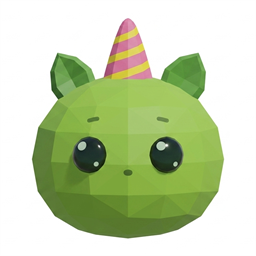
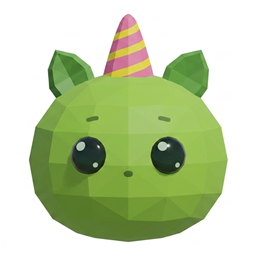
fix(app): 아르 아바타 — 흰 여백과 초록 링 정리
로그인 화면에서 아르 주변이 휑하고, 원 가장자리에 초록 조각이 얼룩처럼
보인다는 지적. 원인이 둘이었다.

1) 그림 자체에 여백
   assets/images/ar.png 는 런처 아이콘 원본을 그대로 줄인 것이라 그림이
   캔버스의 75%만 채우고 사방이 비어 있었다. 원본(766px)에서 그림 영역만
   잘라 다시 만든다. 자를 때 뿔이 원형 클립에 걸리지 않도록 세로 반지름보다
   큰 한 변(766 중 740)을 썼다.

2) 테두리가 이미지에 덮여 얼룩이 됐다
   원형 클립이 이미지를 바깥 원까지 그리는 바람에 연두 링이 군데군데 가려지고
   남은 조각만 초록 틈처럼 보였다. 링을 없앤다 — 웹도 링 없이 캐릭터만 쓴다.

바탕색도 정리했다. 컨테이너에 연두(--sidebar-bg)를 칠하고 있었지만 ar.png 가
불투명 흰 배경이라 애초에 가려져 보이지 않았다. 실제 렌더링에 맞춰 흰색으로
두고 이유를 주석에 남긴다 — 안 보이는 색을 적어 두면 다음 사람이 연두인 줄
알고 맞춰 그린다.

로그인 마크·아르 시트 머리·아르 버튼이 같은 ArAvatar 를 쓰므로 세 곳이
한 번에 반영된다.

같이 정리한 낡은 주석
- 로그인 파일 상단이 "첫 화면으로 거는 것은 큐 7 때"라고 적혀 있었다.
  이미 첫 화면이라 정정
- _Logo 의 주석이 _ArMark 위로 밀려나 있던 것을 제자리로
- 아르 버튼 주석의 "사이드바 색" — 이제 흰색이다

검증: flutter analyze 무경고 · flutter test 153개 통과 · SM-S928N 실기기 확인

diff --git a/mobile/lib/screens/login_screen.dart b/mobile/lib/screens/login_screen.dart
@@ -7,11 +7,13 @@ import '../theme/tokens.dart';
 ///
 /// 그 목업은 폭 360px 카드라 폰 화면에 그대로 맞는다. 모바일 전용 시안은 따로 없다.
 ///
-/// **아직 진짜 로그인이 아니다.** 비밀번호를 검사하지 않고 바로 목록으로 넘어간다.
-/// JWT 연동과 secure storage 는 큐 7번이고, 이 화면을 앱의 첫 화면으로 거는 것도
-/// 그때다(지금은 검사 없는 통과라 첫 화면으로 두면 오히려 헷갈린다).
+/// **앱의 첫 화면이다**(2026-09-01). 통과하면 탭 셸(홈)로 간다.
 ///
-/// 확인은 `flutter run --route=/login` 으로 한다.
+/// **아직 진짜 로그인은 아니다** — 비밀번호를 검사하지 않고 아무 값이나 통과한다.
+/// JWT 연동과 secure storage 는 큐 7번이고, 그때 [_submit] 이 POST /auth/login
+/// 이 되며 실패 문구 자리도 여기 생긴다.
+///
+/// 개발 중 로그인을 건너뛰려면 `flutter run --route=/` 로 띄운다.
 class LoginScreen extends StatefulWidget {
   const LoginScreen({super.key});
 
@@ -131,7 +133,6 @@ class _LoginScreenState extends State<LoginScreen> {
   }
 }
 
-/// 목업 `.logo` — 첫 글자 `A` 만 잎초록.
 /// 아르 마크 — 앱 UI 초안(2026-09-01)이 로고 위에 더한 것.
 ///
 /// 런처 아이콘이 아르라서 첫 화면에서 한 번은 마주치는 게 맞다. 사이드바 하단
@@ -146,12 +147,10 @@ class _ArMark extends StatelessWidget {
       width: 72,
       height: 72,
       clipBehavior: Clip.antiAlias,
+      // ar.png 배경과 같은 흰색 (ar_screen.dart ArAvatar 주석 참고)
       decoration: const BoxDecoration(
-        color: AppColors.sidebarBg,
+        color: AppColors.bgElev,
         shape: BoxShape.circle,
-        border: Border.fromBorderSide(
-          BorderSide(color: AppColors.sidebarLine, width: AppShape.borderW),
-        ),
       ),
       child: Image.asset(
         'assets/images/ar.png',
@@ -163,6 +162,7 @@ class _ArMark extends StatelessWidget {
   }
 }
 
+/// 목업 `.logo` — 첫 글자 `A` 만 잎초록.
 class _Logo extends StatelessWidget {
   const _Logo();
 

diff --git a/mobile/lib/screens/home_shell.dart b/mobile/lib/screens/home_shell.dart
@@ -90,8 +90,8 @@ class _HomeShellState extends State<HomeShell> {
 /// 아르 진입점 — 탭바 위 오른쪽에 뜨는 동그란 버튼.
 ///
 /// Material 의 [FloatingActionButton] 을 쓰지 않는다: 기본 색·그림자·모양이
-/// Material 3 토큰을 따라가서 05-design 값과 어긋난다. 여기서는 사이드바 색
-/// (아르가 사는 자리)과 §4 오버레이 그림자를 그대로 쓴다.
+/// Material 3 토큰을 따라가서 05-design 값과 어긋난다. 여기서는 §4 오버레이
+/// 그림자와 아르 얼굴을 그대로 쓴다.
 class _ArButton extends StatelessWidget {
   const _ArButton({required this.onPressed});
 
@@ -108,13 +108,10 @@ class _ArButton extends StatelessWidget {
           boxShadow: AppShadow.overlay,
         ),
         child: Material(
-          color: AppColors.sidebarBg,
-          shape: const CircleBorder(
-            side: BorderSide(
-              color: AppColors.sidebarLine,
-              width: AppShape.borderW,
-            ),
-          ),
+          // ar.png 배경과 같은 흰색 (ar_screen.dart ArAvatar 주석 참고)
+          color: AppColors.bgElev,
+          // 테두리 없음 — §4 오버레이 그림자가 이미 떠 보이게 한다
+          shape: const CircleBorder(),
           clipBehavior: Clip.antiAlias,
           child: InkWell(
             onTap: onPressed,

diff --git a/mobile/lib/screens/ar_screen.dart b/mobile/lib/screens/ar_screen.dart
@@ -168,12 +168,18 @@ class ArAvatar extends StatelessWidget {
       width: size,
       height: size,
       clipBehavior: Clip.antiAlias,
+      // 바탕은 흰색이다 — assets/images/ar.png 이 흰 배경이라 같은 색이어야
+      // 원 가장자리에 이음매가 안 보인다.
+      //
+      // **테두리를 두지 않는다.** 원형 클립이 이미지를 바깥 원까지 그려서 링이
+      // 군데군데 덮이고, 남은 조각만 초록 틈처럼 보였다. 웹도 링 없이 캐릭터만 쓴다.
+      //
+      // 그림은 런처 아이콘 원본에서 **여백을 잘라 낸** 것이다. 원본은 캔버스의
+      // 75%만 그림이라 원 안이 휑했다. 자를 때 뿔이 원에 걸리지 않도록
+      // 세로 반지름보다 큰 한 변(766 중 740)을 썼다
       decoration: const BoxDecoration(
-        color: AppColors.sidebarBg,
+        color: AppColors.bgElev,
         shape: BoxShape.circle,
-        border: Border.fromBorderSide(
-          BorderSide(color: AppColors.sidebarLine, width: AppShape.borderW),
-        ),
       ),
       child: Image.asset(
         'assets/images/ar.png',
